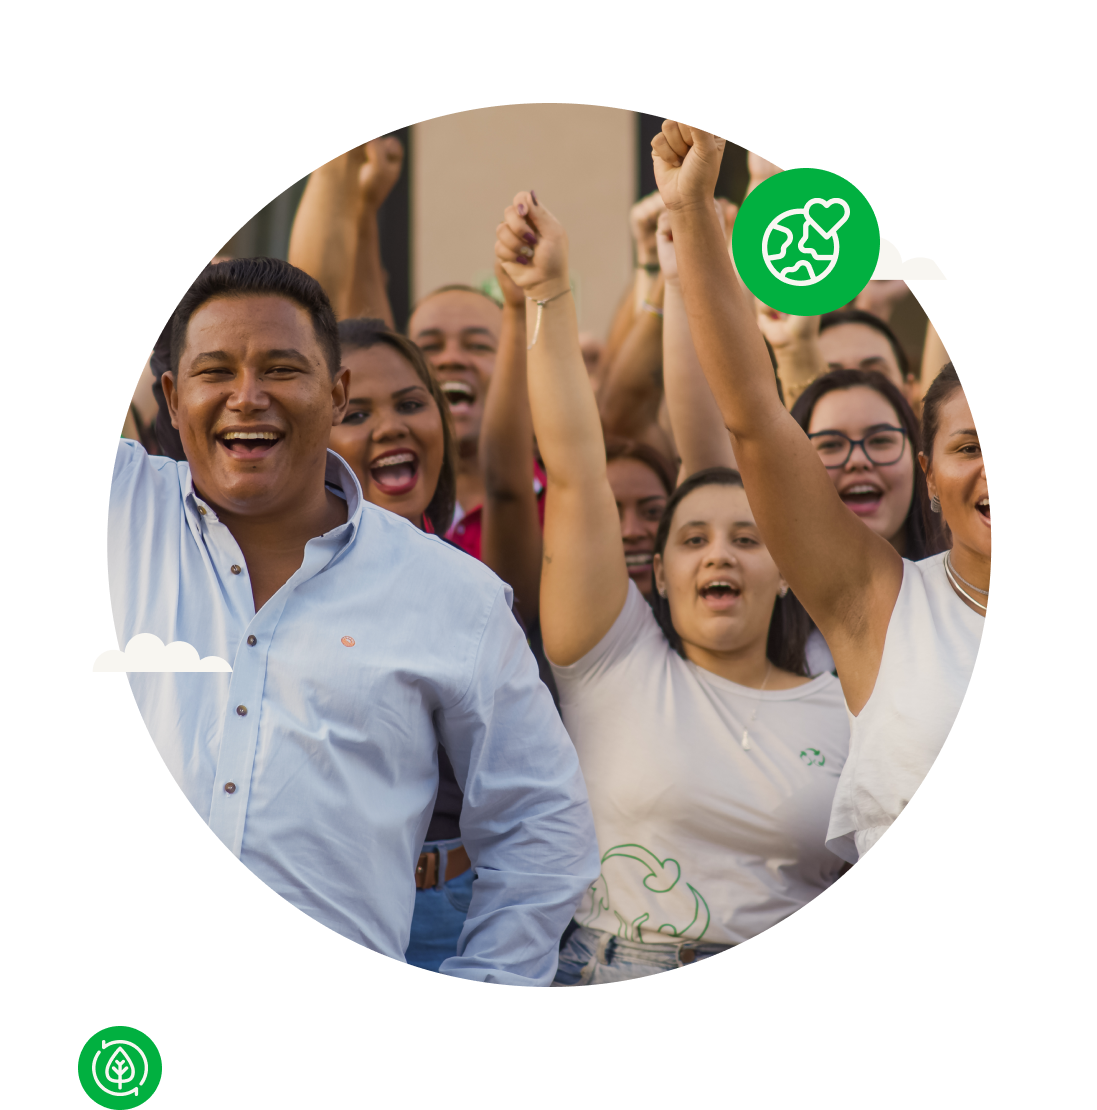
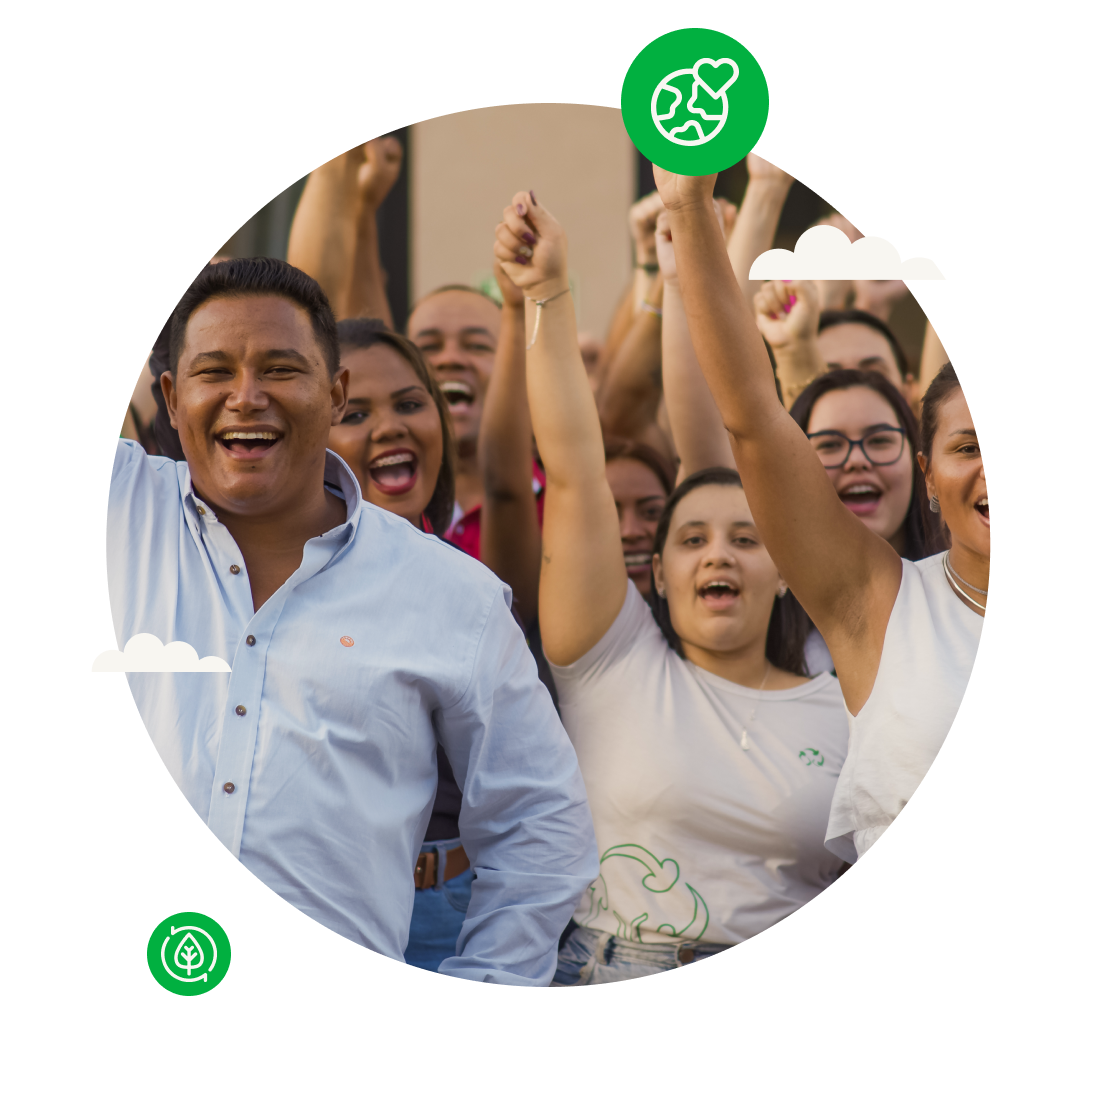
solved qa

diff --git a/src/components/about-us/SectionOurHistory/SectionOurHistory.tsx b/src/components/about-us/SectionOurHistory/SectionOurHistory.tsx
@@ -5,9 +5,9 @@ import ourHistoryImage from "../../../../public/assets/images/about-us/our-histo
 
 const SectionOurHistory: React.FC = () => {
   return (
-    <section className="relative flex bg-beige-300 pt-10 pb-[28px] overflow-hidden">
+    <section className="relative lg:flex-row flex-col flex bg-beige-300 pt-10 pb-[28px] overflow-hidden">
       <GridContainer className="mt-[70px]">
-        <div className="flex flex-col max-w-[496px]">
+        <div className="flex flex-col lg:max-w-[496px]">
           <h2 className="text-xl leading-[30px] text-black font-bold">
             A história da EcoPower teve início com uma estrutura familiar em
             Barretos (interior de SP) em 2013, acompanhando o desenvolvimento,
@@ -39,7 +39,7 @@ const SectionOurHistory: React.FC = () => {
         src={ourHistoryImage}
         alt="Nossa História"
         quality={100}
-        className="absolute max-w-[801px] max-h-[657px] bottom-0 -right-16"
+        className="lg:absolute max-w-[801px] max-h-[657px] bottom-0 -right-16"
       />
     </section>
   );

diff --git a/src/components/products/ProductsGrid/ProductGridItem.tsx b/src/components/products/ProductsGrid/ProductGridItem.tsx
@@ -3,7 +3,11 @@ import React from "react";
 import productImage from "../../../../public/assets/images/products/solar-panel.png";
 import OutlineButton from "@/components/global/OutlineButton";
 
-const ProductGridItem: React.FC = () => {
+interface Props {
+  isOnGrid?: boolean;
+}
+
+const ProductGridItem: React.FC<Props> = ({ isOnGrid }) => {
   return (
     <div className="rounded-2xl bg-beige-300 pt-4 pb-12">
       <Image
@@ -23,10 +27,12 @@ const ProductGridItem: React.FC = () => {
           peilentesque eget ipsum.
         </h3>
         <span className="text-sm leading-7 font-bold">
-          Chama a gente no WhatsApp
+          {isOnGrid ? "Faça um simulação" : "Chama a gente no WhatsApp"}
         </span>
       </div>
-      <OutlineButton className="mx-6 mt-2">WhatsApp</OutlineButton>
+      <button className="mx-6 mt-2 simulate-button min-w-[165px]">
+        Saiba mais
+      </button>
     </div>
   );
 };

diff --git a/src/components/careers/SectionOurValues/SectionOurValues.tsx b/src/components/careers/SectionOurValues/SectionOurValues.tsx
@@ -109,11 +109,11 @@ const SectionOurValues: React.FC<Props> = ({ className }) => {
           </div>
           <div className="flex flex-col justify-between p-6 rounded-2xl min-h-[302px] bg-beige-300">
             <div className="w-[66px] h-[66px] flex-center rounded-full bg-white">
-              <Image src={shakingHands} alt="Ícone de Apoio Irrestrito" />
+              <Image src={shakingHands} alt="Ícone de Apoio Total" />
             </div>
             <div>
               <h2 className="text-black text-base leading-none font-bold">
-                Apoio Irrestrito
+                Apoio Total
               </h2>
               <p className="text-grey-100 mt-2">
                 Estamos em todo o país, com unidades e pontos de apoio para

diff --git a/src/components/careers/SectionOurTeam/SectionOurTeam.tsx b/src/components/careers/SectionOurTeam/SectionOurTeam.tsx
@@ -12,12 +12,12 @@ import teamFive from "../../../../public/assets/images/careers/team-five.svg";
 
 const SectionOurTeam: React.FC = () => {
   return (
-    <section className="relative lg:pt-[450px] pt-[400px] lg:pb-[560px] pb-[80px] overflow-hidden">
+    <section className="relative lg:pt-[450px] md:pt-[400px] pt-[200px] lg:pb-[560px] pb-[80px] overflow-hidden">
       <Image
         src={circle}
         alt="Círculo"
         quality={100}
-        className="absolute right-0 left-0 mx-auto lg:-top-[43%] md:-top-[30%]"
+        className="absolute right-0 left-0 mx-auto lg:-top-[43%] md:-top-[20%] -top-[10%]"
       />
       <GridContainer className="flex-col items-center relative">
         <Reveal>

diff --git a/src/components/products/ProductsGrid/ProductsGrid.tsx b/src/components/products/ProductsGrid/ProductsGrid.tsx
@@ -58,8 +58,8 @@ const ProductsGrid: React.FC = () => {
         peilentesque eget ipsum.
       </Tooltip>
       <div className="grid lg:grid-cols-4 md:grid-cols-2 grid-cols-1 gap-6 md:mt-[88px] mt-10">
-        <ProductGridItem />
-        <ProductGridItem />
+        <ProductGridItem isOnGrid />
+        <ProductGridItem isOnGrid />
         <ProductGridItem />
         <ProductGridItem />
         <ProductGridItem />

diff --git a/src/components/units/SectionInteractiveMap/Map.tsx b/src/components/units/SectionInteractiveMap/Map.tsx
@@ -32,7 +32,6 @@ const Map: React.FC = () => {
   return (
     <svg
       width="1192"
-      height="1241"
       viewBox="0 0 1192 1241"
       fill="none"
       xmlns="http://www.w3.org/2000/svg"
